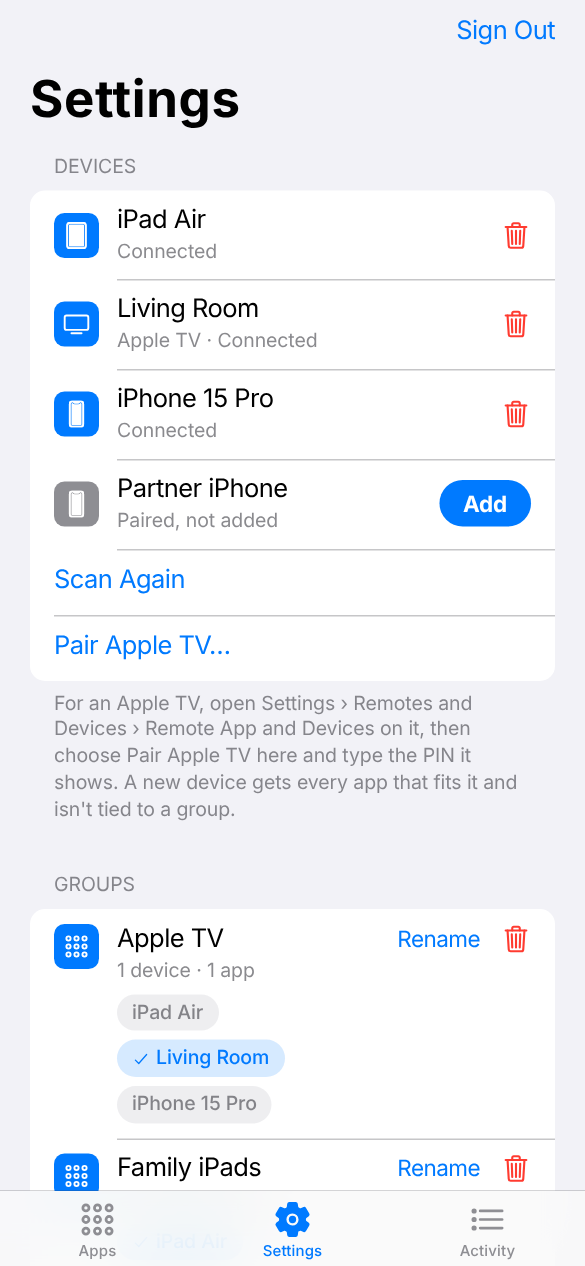
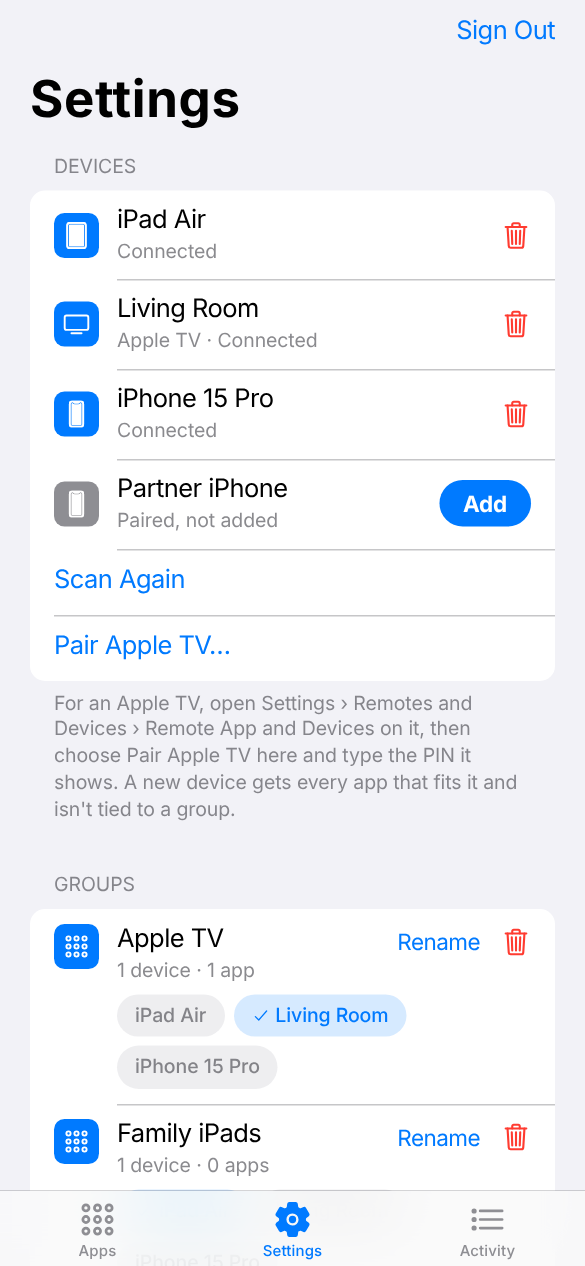
Polish the web page: readable activity history, tidier rows on phones, hover and keyboard focus states
- Activity shows one row per event (time, device, message) with a colour dot, newest first
- Apple ID rows no longer overlap their buttons on narrow screens; Apple ID under the time left
- Group Rename/remove sit top right so the device chips use the full width
- Re-sign Early label stays on one line; larger touch targets on chips
- Hover states for mouse users, visible keyboard focus, reduced-motion support
- Retake the README screenshots

diff --git a/resigner/index.html b/resigner/index.html
@@ -73,6 +73,9 @@ button.cell:active:not(:disabled){background:var(--fill-3)}
 .approw .nm{font-size:17px;font-weight:600;white-space:nowrap;overflow:hidden;text-overflow:ellipsis}
 .approw .st{font-size:15px;color:var(--label-2);margin-top:1px;overflow-wrap:anywhere}
 .st.warn{color:var(--orange)} .st.bad{color:var(--red)}
+.st .who{color:var(--label-2)}
+.st .who::before{content:" · "}
+@media (max-width:520px){.st .who{display:block;font-size:13px;margin-top:1px;overflow:hidden;text-overflow:ellipsis;white-space:nowrap}.st .who::before{content:none}}
 .meter{position:relative;height:4px;border-radius:2px;background:var(--fill);margin-top:8px;max-width:300px}
 .meter>i{position:absolute;inset:0 auto 0 0;border-radius:2px;background:var(--green)}
 .meter.warn>i{background:var(--orange)} .meter.bad>i{background:var(--red)}
@@ -99,8 +102,9 @@ button.cell:active:not(:disabled){background:var(--fill-3)}
 .cell input.fi,.cell select.fi{flex:1.4;min-width:0;border:0;background:none;text-align:right;color:var(--label-2);padding:0;outline:none;font-size:17px}
 .cell input.fi:focus{color:var(--label)}
 .cell input.fi::placeholder{color:var(--label-3)}
-.cell select.fi{appearance:none;-webkit-appearance:none;cursor:pointer;text-align-last:right}
+.cell select.fi{flex:0 1 auto;appearance:none;-webkit-appearance:none;cursor:pointer;text-align-last:right}
 .cell label{flex:none}
+.cell label.k{flex:1;white-space:nowrap}
 
 .drop{position:relative;display:flex;align-items:center;gap:12px;padding:10px 16px;min-height:44px;cursor:pointer;color:var(--blue)}
 .drop.over{background:var(--fill-3)}
@@ -155,10 +159,16 @@ button.cell:active:not(:disabled){background:var(--fill-3)}
 .steps .dot::before{content:"";width:8px;height:8px;border-radius:50%;background:var(--label-3)}
 .list+.list{margin-top:14px}
 .chips{display:flex;flex-wrap:wrap;gap:6px;margin-top:7px}
-.chip{border:0;border-radius:999px;padding:4px 10px;font-size:13px;font-weight:500;cursor:pointer;background:var(--fill-3);color:var(--label-2);display:inline-flex;align-items:center;gap:4px;letter-spacing:-.005em}
+.chip{border:0;border-radius:999px;padding:6px 12px;font-size:13px;font-weight:500;cursor:pointer;background:var(--fill-3);color:var(--label-2);display:inline-flex;align-items:center;gap:4px;letter-spacing:-.005em}
 .chip.on{background:color-mix(in srgb,var(--blue) 16%,transparent);color:var(--blue)}
 .appcell{align-items:flex-start}
 .i.up{transform:rotate(-90deg)} .i.down{transform:rotate(90deg)}
+.k>.hd{display:block}
+.ptools>.tools{position:absolute;top:12px;right:16px}
+.ptools>.k>.hd{padding-right:104px}
+.mv{display:flex;align-items:center;gap:6px}
+.nm1{display:block;overflow:hidden;text-overflow:ellipsis;white-space:nowrap}
+@media (max-width:520px){.idrow{flex-wrap:wrap;row-gap:4px}.idrow>.k{flex:1 1 calc(100% - 50px)}.idrow>.tools{flex:1 1 100%;justify-content:flex-end;padding-left:42px;gap:12px}.idrow .mv{margin-right:auto}}
 .iconbtn:disabled{opacity:.25;cursor:default}
 .iconbtn.blue{color:var(--blue)}
 .tools{display:flex;align-items:center;gap:14px;flex:none}
@@ -175,9 +185,32 @@ button.cell:active:not(:disabled){background:var(--fill-3)}
 .auth .err{color:var(--red);font-size:13px;margin:8px 16px 0;text-align:left}
 .auth .btn{margin-top:18px}
 
-.logs{margin:0;padding:14px 16px;font-family:var(--mono);font-size:12px;line-height:1.6;white-space:pre-wrap;word-break:break-word;max-height:calc(100vh - 230px);overflow:auto;letter-spacing:0;color:var(--label-2)}
+.logs{margin:0;padding:0;max-height:calc(100vh - 230px);overflow:auto}
+.ll{position:relative;padding:10px 16px 10px 34px}
+.ll+.ll::before{content:"";position:absolute;top:0;right:0;left:34px;height:.5px;background:var(--sep)}
+.ll::after{content:"";position:absolute;left:16px;top:15px;width:8px;height:8px;border-radius:50%;background:var(--gray)}
+.ll.ok::after{background:var(--green)} .ll.warn::after{background:var(--orange)} .ll.bad::after{background:var(--red)}
+.ll .lt{font-size:12px;color:var(--label-2);font-variant-numeric:tabular-nums;letter-spacing:0}
+.ll .lw{font-weight:600}
+.ll .lm{font-size:15px;line-height:1.35;overflow-wrap:anywhere}
+.ll .lm code{font-family:var(--mono);font-size:12px;letter-spacing:0;color:var(--label-2)}
+.logs .none{padding:16px;color:var(--label-2)}
 .empty{text-align:center;padding:36px 20px;color:var(--label-2);font-size:15px}
 .empty b{display:block;font-size:20px;color:var(--label);margin:14px 0 6px}
+
+@media (hover:hover){
+  button.cell:hover:not(:disabled),.drop:hover{background:var(--fill-3)}
+  .cap:hover:not(:disabled){filter:brightness(.93)}
+  .cap.solid:hover:not(:disabled){filter:brightness(1.1)}
+  .chip:hover,.iconbtn:hover:not(:disabled){filter:brightness(.92)}
+  .linkbtn:hover:not(:disabled),.navbtn:hover,.tabbar button:hover{opacity:.7}
+  .btn:hover{filter:brightness(1.08)}
+}
+:focus-visible{outline:2px solid var(--blue);outline-offset:2px}
+.cell:focus-visible,.drop:focus-visible{outline-offset:-2px}
+.switch input:focus-visible+span{box-shadow:0 0 0 3px color-mix(in srgb,var(--blue) 45%,transparent)}
+.cell input.fi:focus-visible,.code:focus-visible{outline:0}
+@media (prefers-reduced-motion:reduce){*:not(.spinner),*:not(.spinner)::before,*:not(.spinner)::after{animation-duration:.01ms!important;transition-duration:.01ms!important}}
 </style>
 </head>
 <body>
@@ -349,7 +382,7 @@ function appsView() {
         const pct = t.signature.expiry ? Math.max(0, Math.min(100, s.left / life * 100)) : 0;
         return `<div class="approw">${appIcon(a, "md")}
           <div class="mid"><div class="nm">${esc(a.name)}</div>
-            <div class="st ${failed ? "bad" : s.cls}">${failed ? "Last re-sign failed" : s.text}${(S.accounts || []).length > 1 && t.signature.account && accName(t.signature.account) ? ` · ${esc(accName(t.signature.account))}` : ""}</div>
+            <div class="st ${failed ? "bad" : s.cls}">${failed ? "Last re-sign failed" : s.text}${(S.accounts || []).length > 1 && t.signature.account && accName(t.signature.account) ? `<span class="who">${esc(accName(t.signature.account))}</span>` : ""}</div>
             ${t.signature.expiry ? `<div class="meter ${s.cls}"><i style="width:${pct}%"></i></div>` : ""}</div>
           <button class="cap ${s.cls === "ok" ? "" : "solid"}" data-sign="${esc(a.id)}" data-dev="${esc(d.udid)}" ${busy ? "disabled" : ""}>${t.signature.expiry ? "Re-sign" : "Install"}</button></div>`;
       }).join("") || `<div class="cell"><span class="k" style="color:var(--label-2)">No apps on this device</span><button class="linkbtn" data-go="settings">Choose</button></div>`}</div>
@@ -499,7 +532,7 @@ function settingsView() {
     <div class="shead"><h3>Groups</h3></div>
     <div class="list">
       ${groups.map(g => { const on = new Set(g.devices.map(u => u.toLowerCase())), n = apps.filter(a => (a.groups || []).includes(g.id)).length;
-        return `<div class="cell ind appcell">${tile("var(--blue)", "apps-outline")}<span class="k">${esc(g.name)}<span class="sub">${plural(g.devices.length, "device")} · ${plural(n, "app")}</span>
+        return `<div class="cell ind appcell ptools">${tile("var(--blue)", "apps-outline")}<span class="k"><span class="hd">${esc(g.name)}<span class="sub">${plural(g.devices.length, "device")} · ${plural(n, "app")}</span></span>
           <span class="chips">${devs.map(d => `<button class="chip ${on.has(d.udid.toLowerCase()) ? "on" : ""}" data-gdev="${esc(g.id)}" data-dev="${esc(d.udid)}">${on.has(d.udid.toLowerCase()) ? check : ""}${esc(d.name)}</button>`).join("") || `<span class="sub">Add a device first</span>`}</span></span>
           <span class="tools"><button class="linkbtn" data-rename="${esc(g.id)}">Rename</button>${trash("grp:", g.id, g.name)}</span></div>`; }).join("")}
       <form id="gaddf" class="cell"><input class="fi" id="gname" style="text-align:left;color:var(--label)" placeholder="New group, e.g. Family iPads" maxlength="40"><button class="cap solid">Add</button></form>
@@ -523,7 +556,7 @@ function settingsView() {
           <span class="sub" style="margin-top:7px">${pending.groups.length ? "Only the devices of these groups." : "Pick groups, or none for every device."}</span></span></div>` : ""}
         <button class="cell action" id="useipa" style="font-weight:600">${replacing ? `Replace ${esc(replacing.name)}` : pending.groups.length ? "Add to Selected Groups" : devs.filter(d => fitsApp(pending.info, d)).length > 1 ? "Add to All Devices" : "Add App"}</button>
         <button class="cell action" id="dropipa" style="color:var(--red)">Cancel</button>`
-      : `<div class="drop" id="drop">${ic("add-circle", 22)}<span class="k" id="progt">Add App…</span></div>
+      : `<div class="drop" id="drop" role="button" tabindex="0">${ic("add-circle", 22)}<span class="k" id="progt">Add App…</span></div>
          <div class="progress hidden" id="prog"><i></i></div>
          <input type="file" id="file" accept=".ipa" class="hidden">
          <form id="linkf" class="cell"><input class="fi" id="ipalink" style="text-align:left;color:var(--label)" placeholder="Or paste a link to an .ipa" inputmode="url" autocapitalize="off" autocorrect="off" spellcheck="false"><button class="cap solid">Get</button></form>`}
@@ -534,11 +567,11 @@ function settingsView() {
   <div class="sect">
     <div class="shead"><h3>Apple IDs</h3></div>
     <div class="list">
-      ${accs.map((a, i) => `<div class="cell ind appcell">${tile(a.enabled ? "var(--green)" : "var(--gray)", "lock-closed")}<span class="k">${esc(a.apple_id)}
+      ${accs.map((a, i) => `<div class="cell ind appcell idrow">${tile(a.enabled ? "var(--green)" : "var(--gray)", "lock-closed")}<span class="k"><span class="nm1">${esc(a.apple_id)}</span>
           <span class="sub">${[i === 0 && a.enabled ? "First choice" : "", !a.verified ? "Not used yet" : a.exhausted ? "Out of signings for now" : a.per_device ? `${a.per_device} of 3 apps per device` : "No apps yet", a.app_ids_week ? `${a.app_ids_week} of 10 App IDs this week` : ""].filter(Boolean).join(" · ")}</span></span>
-          <span class="tools">
+          <span class="tools"><span class="mv">
             <button class="iconbtn blue" data-mv="up" data-acc="${esc(a.id)}" aria-label="Move up" ${i === 0 ? "disabled" : ""}>${ic("chevron-forward", 18, "up")}</button>
-            <button class="iconbtn blue" data-mv="down" data-acc="${esc(a.id)}" aria-label="Move down" ${i === accs.length - 1 ? "disabled" : ""}>${ic("chevron-forward", 18, "down")}</button>
+            <button class="iconbtn blue" data-mv="down" data-acc="${esc(a.id)}" aria-label="Move down" ${i === accs.length - 1 ? "disabled" : ""}>${ic("chevron-forward", 18, "down")}</button></span>
             ${sw("accon-" + a.id, a.enabled)}${trash("acc:", a.id, a.apple_id)}</span></div>`).join("")}
     </div>
     <form id="aidf" autocomplete="off"><div class="list" style="margin-top:14px">
@@ -573,13 +606,22 @@ function ipaWarnings(i) {
 function activityView() {
   return `<div class="sect">
     <div class="shead"><h3>History</h3><button class="linkbtn" id="reload">${ic("refresh", 15)}Reload</button></div>
-    <div class="list"><pre class="logs" id="logs">Loading…</pre></div></div>`;
+    <div class="list"><div class="logs" id="logs"><div class="none">Loading…</div></div></div></div>`;
+}
+const MONTHS = ["Jan", "Feb", "Mar", "Apr", "May", "Jun", "Jul", "Aug", "Sep", "Oct", "Nov", "Dec"];
+function logRow(line) {
+  const m = /^(\d{4})-(\d\d)-(\d\d) (\d\d:\d\d)(?::\d\d)? (?:\[([^\]]+)\] )?([\s\S]*)$/.exec(line);
+  if (!m) return `<div class="ll"><div class="lm">${esc(line)}</div></div>`;
+  const [, , mo, d, hm, who, msg] = m;
+  const cls = /^OK\b|Installation complete/.test(msg) ? "ok" : /^(FAIL|ERROR)\b/.test(msg) ? "bad" : /^(WARNING|NOTE)\b|not reachable|no signings left|failed/.test(msg) ? "warn" : "";
+  const text = esc(msg).replace(/\b[0-9A-Fa-f]{8}-[0-9A-Fa-f]{16}\b/g, id => `<code>${id}</code>`);
+  return `<div class="ll ${cls}"><div class="lt">${+d} ${MONTHS[+mo - 1]} · ${hm}</div><div class="lm">${who ? `<span class="lw">${esc(who)}</span> ` : ""}${text}</div></div>`;
 }
 async function loadLogs() {
   const r = await api("/api/logs");
   const el = $("#logs"); if (!el) return;
-  el.textContent = r.lines.length ? r.lines.join("\n") : "Nothing yet.";
-  el.scrollTop = el.scrollHeight;
+  el.innerHTML = r.lines.length ? r.lines.slice().reverse().map(logRow).join("") : `<div class="none">Nothing yet.</div>`;
+  el.scrollTop = 0;
 }
 
 async function act(fn, ok) { try { await fn(); if (ok) toast(ok); } catch (e) { toast(e.message); } await poll(); }
@@ -659,6 +701,7 @@ function wire() {
   const drop = $("#drop"), file = $("#file");
   if (drop && file) {
     drop.onclick = () => file.click();
+    drop.onkeydown = e => { if (e.key === "Enter" || e.key === " ") { e.preventDefault(); file.click(); } };
     file.onchange = () => file.files[0] && upload(file.files[0]);
     drop.ondragover = e => { e.preventDefault(); drop.classList.add("over"); };
     drop.ondragleave = () => drop.classList.remove("over");
